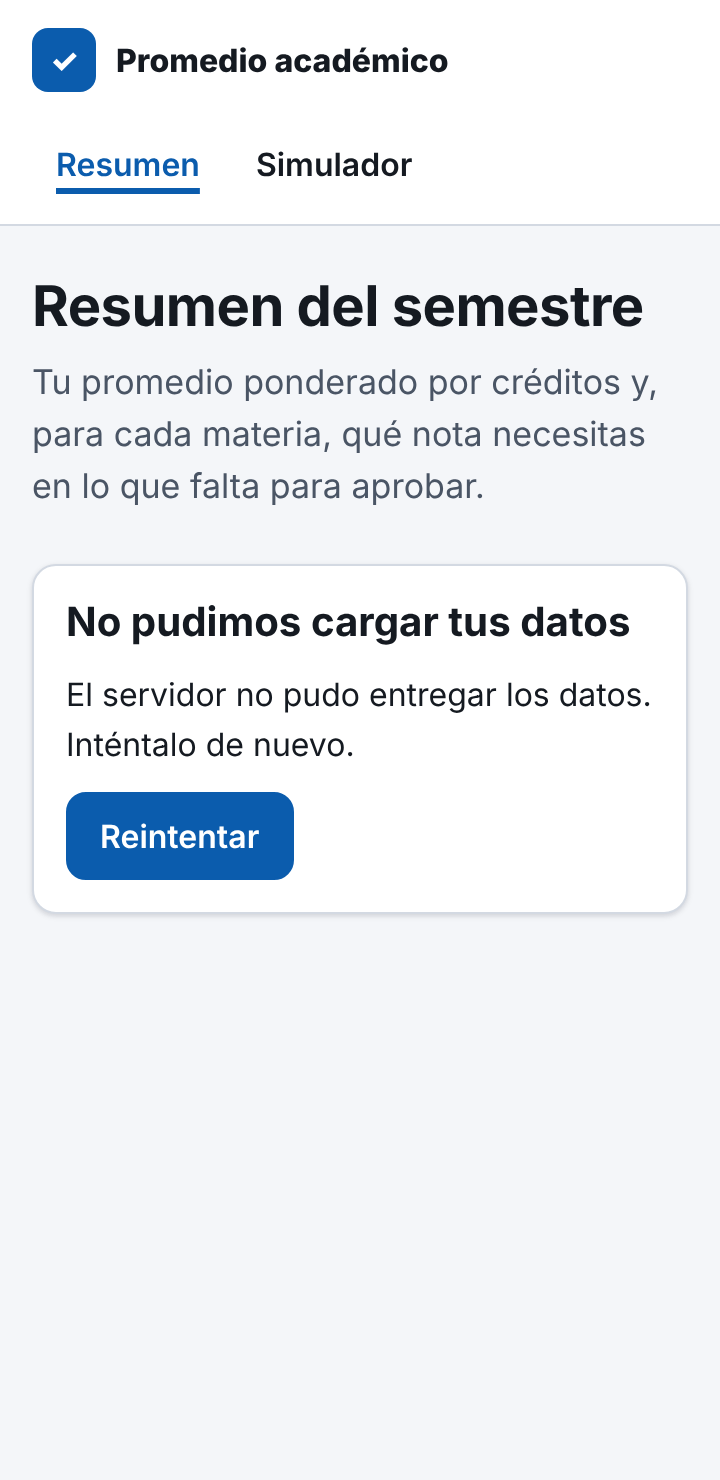
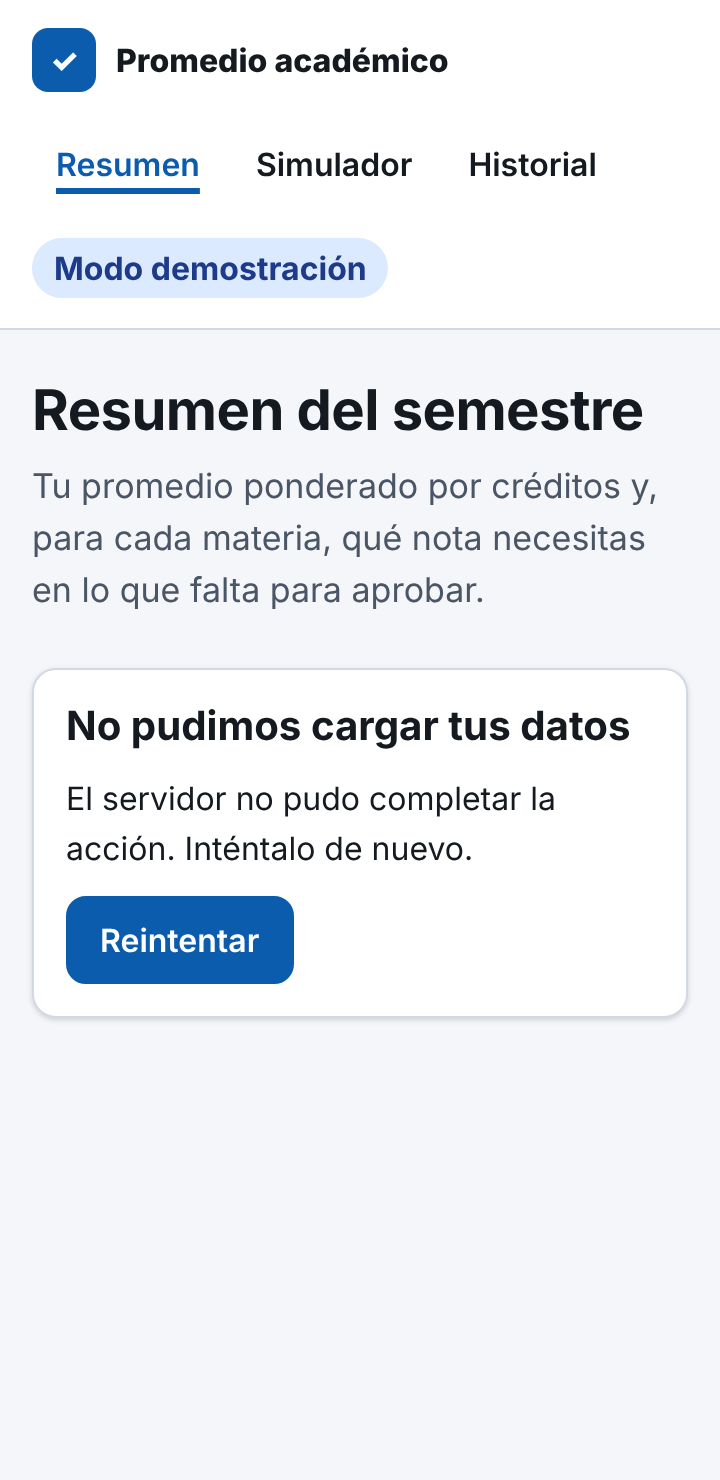
fix(ui): sin saltos de diseño en la cabecera y evidencias nuevas
El menú de cuenta reserva su espacio (CLS 0,06 a 0). Se vuelven a generar capturas, informes de axe
y métricas, y la bitácora cuenta lo que se corrigió.

Claude-Session: https://claude.ai/code/session_019Gt8Bea9N9nXjjc9xKQaeN

Changed region(s): [[0.0306, 0.1554, 0.9472, 0.6838], [0.6417, 0.0932, 0.825, 0.1243]]

diff --git a/src/components/MenuDeCuenta.tsx b/src/components/MenuDeCuenta.tsx
@@ -2,21 +2,20 @@
 
 import { useRouter } from 'next/navigation';
 import { useUsuario } from '@/hooks/useUsuario';
-import { cerrarSesion } from '@/lib/api-cliente';
+import { cerrarSesion, type UsuarioActual } from '@/lib/api-cliente';
 import ui from './ui.module.css';
 import estilos from './MenuDeCuenta.module.css';
 
-/** Quién tiene la sesión abierta y cómo salir; en modo demostración solo lo avisa. */
-export function MenuDeCuenta() {
+function Contenido({ usuario }: { usuario: UsuarioActual | null }) {
   const router = useRouter();
-  const { usuario } = useUsuario();
   if (!usuario) return null;
-  if (usuario.demo)
+  if (usuario.demo) {
     return (
       <p className={`${ui.insignia} ${estilos.cuenta}`} data-tono="info">
         Modo demostración
       </p>
     );
+  }
   return (
     <div className={`${estilos.cuenta} no-imprimir`}>
       <span className={estilos.correo}>{usuario.correo ?? usuario.uid}</span>
@@ -31,6 +30,20 @@ export function MenuDeCuenta() {
       >
         Cerrar sesión
       </button>
+    </div>
+  );
+}
+
+/**
+ * Quién tiene la sesión abierta y cómo salir; en modo demostración solo lo avisa. El espacio se
+ * reserva desde el principio: si apareciera al llegar la respuesta, la cabecera cambiaría de altura
+ * y empujaría toda la página (CLS).
+ */
+export function MenuDeCuenta() {
+  const { usuario } = useUsuario();
+  return (
+    <div className={estilos.espacio}>
+      <Contenido usuario={usuario} />
     </div>
   );
 }

diff --git a/src/components/MenuDeCuenta.test.tsx b/src/components/MenuDeCuenta.test.tsx
@@ -54,8 +54,9 @@ describe('MenuDeCuenta', () => {
 
   it('sin sesión (401) no muestra nada', async () => {
     responderSiempre({ error: 'Necesitas iniciar sesión.' }, 401);
-    const { container } = render(<MenuDeCuenta />);
+    render(<MenuDeCuenta />);
     await waitFor(() => expect(fetch).toHaveBeenCalled());
-    expect(container).toBeEmptyDOMElement();
+    expect(screen.queryByRole('button')).not.toBeInTheDocument();
+    expect(screen.queryByText('Modo demostración')).not.toBeInTheDocument();
   });
 });

diff --git a/src/components/MenuDeCuenta.module.css b/src/components/MenuDeCuenta.module.css
@@ -1,3 +1,19 @@
+.espacio {
+  display: flex;
+  flex: 1 0 100%;
+  align-items: center;
+  min-block-size: 2.75rem;
+}
+
+/* A partir de tableta cabe junto a la navegación: se le reserva también el ancho. */
+@media (min-width: 48rem) {
+  .espacio {
+    flex: 0 0 auto;
+    justify-content: flex-end;
+    min-inline-size: 12rem;
+  }
+}
+
 .cuenta {
   display: flex;
   flex-wrap: wrap;

diff --git a/src/components/EditorMateria.tsx b/src/components/EditorMateria.tsx
@@ -31,7 +31,7 @@ type Edicion = ReturnType<typeof useEdicionMateria>;
 function PieDelEditor({ edicion }: { edicion: Edicion }) {
   return (
     <>
-      <p className={ui.ayuda} role="status">
+      <p className={`${ui.ayuda} ${estilos.estado}`} role="status">
         {ESTADOS[edicion.guardado]}
       </p>
       <p role="alert" className={ui.error}>

diff --git a/src/components/EditorMateria.module.css b/src/components/EditorMateria.module.css
@@ -15,3 +15,9 @@
     grid-template-columns: minmax(0, 3fr) minmax(0, 2fr);
   }
 }
+
+/* El mensaje de estado aparece al escribir: se le reserva el espacio de dos líneas para que los
+   botones de abajo no se muevan (CLS). */
+.estado {
+  min-block-size: 3.25rem;
+}

diff --git a/CALIDAD.md b/CALIDAD.md
@@ -15,21 +15,22 @@ responsive, accesibilidad, HTML semántico y retos de excelencia. Todo está en
 > formularios de semestres y materias y el guardado explícito: esas pantallas están cubiertas por las
 > pruebas automáticas de navegador (axe, tamaño de objetivos y texto, desbordes, consola y CSP, en 3
 > anchos y 4 temas), pero **Lighthouse, el validador W3C y las métricas de campo hay que repetirlos**
-> antes de entregar (comandos al final).
+> antes de entregar (comandos al final). **Sí se repitieron** con las pantallas nuevas: INP, CLS, LCP
+> de campo (`calidad/vitales.json`) y los informes de axe.
 
 ## Resumen de cumplimiento
 
-| Requisito                                                                    | Resultado                                                                                                                                              | Estado               |
-| ---------------------------------------------------------------------------- | ------------------------------------------------------------------------------------------------------------------------------------------------------ | -------------------- |
-| LCP ≤ 2,5 s · INP ≤ 200 ms · CLS ≤ 0,1                                       | LCP 0,93 s (móvil, simulado) · INP **24 ms** · CLS 0                                                                                                   | ✅                   |
-| Lighthouse móvil: Rend. ≥ 90 · Acces. ≥ 95 · BP ≥ 95 · SEO ≥ 95              | **100 · 100 · 100 · 100** en las 3 páginas, móvil y escritorio                                                                                         | ✅ (local)           |
-| Presupuesto: JS ≤ 200 kB y página ≤ 1 MB                                     | JS **184,4–188,5 kB** · página **≤ 212 kB** transferidos                                                                                               | ✅ (con poco margen) |
-| Responsive 360 · 768 · 1024 sin scroll horizontal                            | Playwright en los 3 anchos, también a 320 px y con zoom al 200 % (emulado)                                                                             | ✅                   |
-| Objetivos táctiles ≥ 44 × 44 px · texto ≥ 16 px                              | Comprobado por prueba automática sobre botones, campos, enlaces y todo el texto                                                                        | ✅                   |
-| Accesibilidad WCAG 2.2 AA                                                    | axe: **0 violaciones** en 27 combinaciones (3 páginas × 3 temas × 3 anchos) y en las pruebas de navegador (4 temas × 3 anchos × 8 pantallas y estados) | ✅ automático        |
-| Revisión manual (teclado real, zoom real, lector de pantalla, teléfono real) | Ver la lista de abajo                                                                                                                                  | ☐ **pendiente**      |
-| HTML válido (validador W3C)                                                  | **0 errores y 0 avisos** en 6 documentos (HTML del servidor y DOM hidratado)                                                                           | ✅                   |
-| Retos de excelencia (≥ 3)                                                    | 5 elegidos con evidencia                                                                                                                               | ✅                   |
+| Requisito                                                                    | Resultado                                                                                                                                                                                                                                    | Estado               |
+| ---------------------------------------------------------------------------- | -------------------------------------------------------------------------------------------------------------------------------------------------------------------------------------------------------------------------------------------- | -------------------- |
+| LCP ≤ 2,5 s · INP ≤ 200 ms · CLS ≤ 0,1                                       | LCP 0,93 s (Lighthouse móvil, **del Hito 1**) · INP **32 ms** · CLS **0** (medidos otra vez con las pantallas nuevas)                                                                                                                        | ✅                   |
+| Lighthouse móvil: Rend. ≥ 90 · Acces. ≥ 95 · BP ≥ 95 · SEO ≥ 95              | **100 · 100 · 100 · 100** en las 3 páginas, móvil y escritorio                                                                                                                                                                               | ✅ (local)           |
+| Presupuesto: JS ≤ 200 kB y página ≤ 1 MB                                     | JS **184,4–188,5 kB** · página **≤ 212 kB** transferidos                                                                                                                                                                                     | ✅ (con poco margen) |
+| Responsive 360 · 768 · 1024 sin scroll horizontal                            | Playwright en los 3 anchos, también a 320 px y con zoom al 200 % (emulado)                                                                                                                                                                   | ✅                   |
+| Objetivos táctiles ≥ 44 × 44 px · texto ≥ 16 px                              | Comprobado por prueba automática sobre botones, campos, enlaces y todo el texto                                                                                                                                                              | ✅                   |
+| Accesibilidad WCAG 2.2 AA                                                    | axe: **0 violaciones** en 36 informes completos (4 pantallas × 3 temas × 3 anchos, `calidad/axe/`) y en las pruebas de navegador (4 temas × 3 anchos × 6 rutas y 6 estados: error, vacío, sesión vencida, validación, diálogo y formularios) | ✅ automático        |
+| Revisión manual (teclado real, zoom real, lector de pantalla, teléfono real) | Ver la lista de abajo                                                                                                                                                                                                                        | ☐ **pendiente**      |
+| HTML válido (validador W3C)                                                  | **0 errores y 0 avisos** en 6 documentos (HTML del servidor y DOM hidratado)                                                                                                                                                                 | ✅                   |
+| Retos de excelencia (≥ 3)                                                    | 5 elegidos con evidencia                                                                                                                                                                                                                     | ✅                   |
 
 ## 1 · Rendimiento y Core Web Vitals
 
@@ -61,8 +62,8 @@ Lighthouse **no mide INP** en laboratorio. Se midió en un navegador real recorr
 
 | Métrica |                                       Resultado |   Límite |
 | ------- | ----------------------------------------------: | -------: |
-| LCP     |                                          644 ms | 2 500 ms |
-| INP     | **24 ms** (29 interacciones; el INP es la peor) |   200 ms |
+| LCP     |                                           92 ms | 2 500 ms |
+| INP     | **32 ms** (31 interacciones; el INP es la peor) |   200 ms |
 | CLS     |                                               0 |      0,1 |
 
 Datos: [`calidad/vitales.json`](calidad/vitales.json). Una sola corrida en local, sin red
@@ -75,7 +76,7 @@ estrangulada: no sustituye a datos reales de usuarios (percentil 75).
 | **Buenas prácticas**       | Chrome registraba una `kEvalViolation` en su panel de problemas: Zod 4 prueba `new Function('')` para compilar esquemas y, aunque capture el error, el CSP de producción (sin `unsafe-eval`) lo anota. Se configuró `z.config({ jitless: true })`. |                96 en las 3 páginas |        **100** |
 | **JavaScript transferido** | Empeoró: el documento exige Zod en el cliente. Sigue dentro del presupuesto, con poco margen.                                                                                                                                                      | 151,1 kB (versión de una pantalla) | 184,4–188,5 kB |
 | CLS                        | Sin cambios: ya se había corregido reservando la altura del primer pantallazo (commit `ff0d602`, 0,057 → 0) y el diseño actual lo mantiene.                                                                                                        |                                  0 |              0 |
-| LCP / INP                  | Ya cumplían en la primera medición: no hay «antes» que comparar.                                                                                                                                                                                   |                                  — | 644 ms / 24 ms |
+| LCP / INP                  | Ya cumplían en la primera medición: no hay «antes» que comparar.                                                                                                                                                                                   |                                  — |  92 ms / 32 ms |
 
 El «antes» de buenas prácticas se reproduce haciendo `git checkout e678772` y midiendo; el informe de
 esa corrida no se guardó como archivo. La prueba que lo cubre desde entonces es

diff --git a/ia/BITACORA.md b/ia/BITACORA.md
@@ -22,6 +22,10 @@
 | 11  | Esquemas Zod compartidos y cálculo con enteros                                           | `test(servicios)` (rojo, 3 archivos sin módulo) → `feat(servicios)` (37 verdes)                                      | Rojo por «módulo inexistente»; luego verde. Repasé a mano la aritmética de las pruebas antes de ejecutar                                                                  | Truncar a 2 decimales y decidir con enteros; la nota necesaria sube a la décima siguiente                                             |
 | 12  | API por capas con errores consistentes                                                   | `feat(api)`                                                                                                          | 200, 400, 404, 500 sin detalles internos e integración sobre el criterio 1. **Las pruebas se escribieron antes que el código, pero no ejecuté un paso rojo por separado** | El repositorio es una interfaz: en el Hito 3 se cambia por Firestore                                                                  |
 | 13  | Auditoría de calidad sobre la versión nueva                                              | `fix(csp)`, `CALIDAD.md`                                                                                             | Lighthouse 100/100/100/100 en 3 páginas; INP 24 ms; validador de W3C 0 errores; axe 0 violaciones en 27 combinaciones                                                     | No reclamar nada de Vercel: todo es en local                                                                                          |
+| 14  | Repositorio por usuario, API REST completa y Firestore                                   | `feat(repositories)`, `feat(api)`                                                                                    | 50 pruebas de rutas (200/201/204/400/401/403/404/409/429), aislamiento entre dos usuarios, adaptador de Firestore contra un doble                                         | El `uid` solo sale de la sesión; Firestore se prueba contra un doble, **no contra un proyecto real**                                  |
+| 15  | Sesión con Firebase Auth, cookie HttpOnly, roles, CSRF y `proxy.ts`                      | `feat(auth)`                                                                                                         | `crearSesion`, `requerirUsuario`, rutas de sesión y `proxy.ts` con el Admin SDK simulado                                                                                  | Quedó **sin probar con cuentas reales**: lo debe hacer quien sustenta                                                                 |
+| 16  | Interfaz de semestres y materias, `/historial`, comparación y guardado explícito         | `feat(ui)`                                                                                                           | 312 pruebas; las de pantalla usan los Route Handlers reales                                                                                                               | Se descartó el borrador por semestre y se dejó uno por materia                                                                        |
+| 17  | `openapi.yaml`, Bruno, reglas de Firestore y e2e de los Hitos 2 a 4                      | `feat: openapi…`                                                                                                     | Una prueba compara el contrato con las rutas; e2e en 3 anchos (291)                                                                                                       | La colección de Bruno **no se ejecutó** (necesita un token real)                                                                      |
 
 ## Casos en que se corrigió lo que produjo la IA (detectados por pruebas y herramientas)
 
@@ -72,6 +76,23 @@
     «Volver al resumen»). Eran de la prueba, no de la aplicación; se hicieron precisos.
 15. **La sesión se reinició a mitad de una suite.** Se comprobó el estado en disco, se relanzó en
     segundo plano con registro y se completó; no se dio nada por bueno sin ver el resultado.
+16. **Intenté ejecutar un paquete externo sin avisar.** Para validar `openapi.yaml` pedí a la
+    terminal `npx -y @redocly/cli`. El control de permisos lo denegó (descargar y correr código ajeno
+    contradice `AGENTS.md`). No insistí: validé el contrato con una prueba propia que compara el
+    YAML con las rutas del código y agregué `yaml`, que ya estaba en el árbol, como dependencia de
+    desarrollo, justificada en el README.
+17. **Una regresión de CLS que yo introduje.** Al añadir el menú de cuenta, el CLS pasó de 0 a
+    0,044–0,06: la cabecera crecía 52 px cuando llegaba la respuesta de `/api/auth/yo`. Lo encontré
+    midiendo cada salto de diseño con su elemento y sus rectángulos (no adivinando), reservé el
+    espacio del menú desde el principio y volví a medir: 0 en 360, 768 y 1024 px.
+18. **Una medición engañosa.** Dos veces vi «0 saltos de diseño» porque un servidor viejo seguía
+    ocupando el puerto y respondía con errores 503. Lo detecté porque la página no mostraba datos;
+    maté el proceso y repetí la medición.
+19. **Dos objetivos táctiles de 20–25 px.** La prueba de 44 px encontró el `<summary>` de «Agregar una
+    materia» y el enlace «Volver al resumen». Se corrigieron en el CSS, no en la prueba.
+20. **Una prueba que pasaba por casualidad.** Las consultas por etiqueta encontraban el formulario de
+    «Nuevo semestre» (cerrado pero presente) además del de edición; se acotaron a la tarjeta del
+    semestre en lugar de relajar la aserción.
 
 ## B. A completar por quien sustenta (≥ 3 casos propios)
 
@@ -97,11 +118,16 @@ probable):
    ahí? ¿Por qué `strictObject` (mass assignment) y qué es `jitless`?
 3. **`src/lib/http.ts`**: ¿qué hace `manejar()`? ¿Por qué un 500 no devuelve el mensaje del error y por
    qué los errores no se cachean?
-4. **`src/hooks/useSemestre.ts`**: ¿por qué «cargando» se deduce con una clave en vez de llamar a
+4. **`src/hooks/useSemestres.ts`**: ¿por qué las acciones refrescan la lista sin pasar por «cargando»? (y, antes, ¿por qué «cargando» se deduce con una clave en vez de llamar a
    `setState` dentro del efecto? ¿Para qué sirve el `AbortController`?
 5. **`src/hooks/useBorrador.ts`**: `useSyncExternalStore` y por qué hay un `getServerSnapshot`.
 6. **`src/components/CampoNumero.tsx`**: la Constraint Validation API (`validity.badInput`,
    `setCustomValidity`) y el patrón de «ajustar el estado cuando cambia una propiedad».
-7. **`src/components/ConSemestre.tsx`** y **`EditorMateria.tsx`**: contenedor frente a presentación, y
+7. **`src/components/ConSemestres.tsx`**, **`ConSemestreActivo.tsx`** y **`EditorMateria.tsx`**: contenedor frente a presentación, y
    estado derivado con `useMemo`.
 8. **`.claude/hooks/guard.mjs`**: por qué sale con código 2 y qué falsos positivos tiene.
+9. **`src/lib/auth.ts` y `src/lib/sesion.ts`**: ¿por qué la cookie y no el `idToken` en `localStorage`?
+   ¿Qué hace `verifySessionCookie(…, true)`? ¿Por qué `proxy.ts` **no** es la seguridad real?
+10. **`src/repositories/semestres.ts`**: ¿por qué todo cuelga de `usuarios/{uid}` y por qué un semestre
+    ajeno responde 404 y no 403?
+11. **`src/lib/http.ts` (`verificarOrigen`)**: ¿cómo evita un CSRF y por qué se acepta `Bearer` sin `Origin`?
